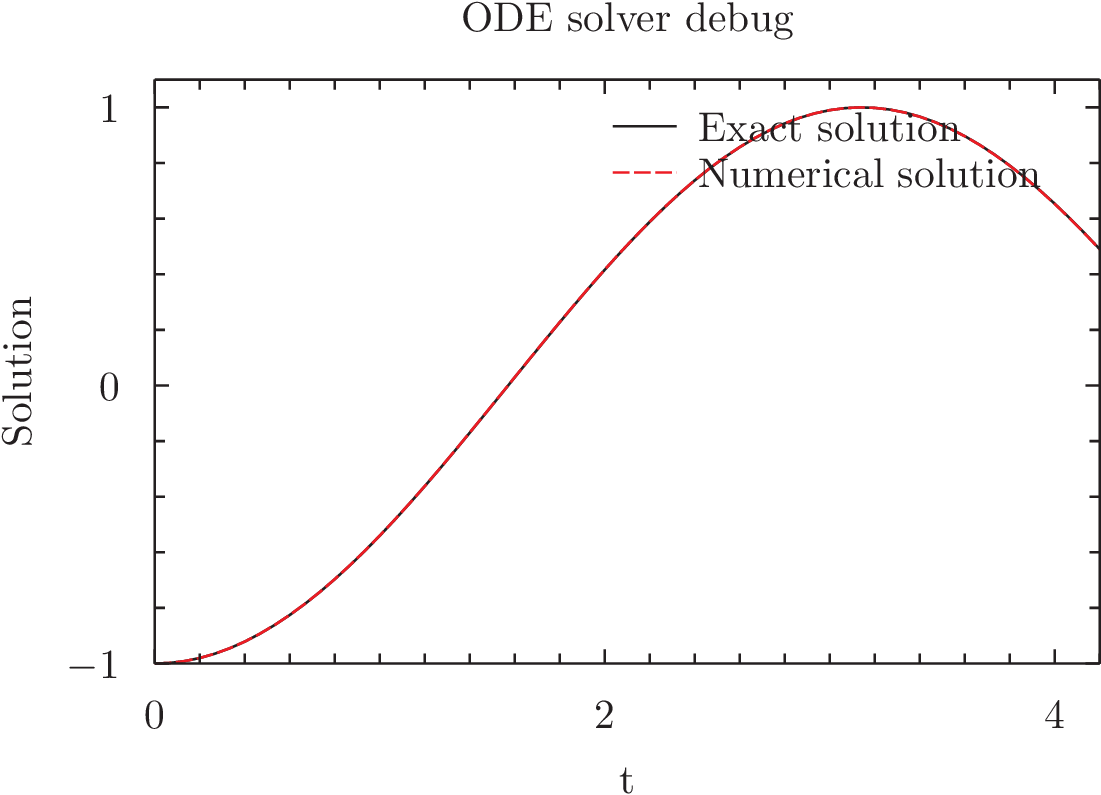
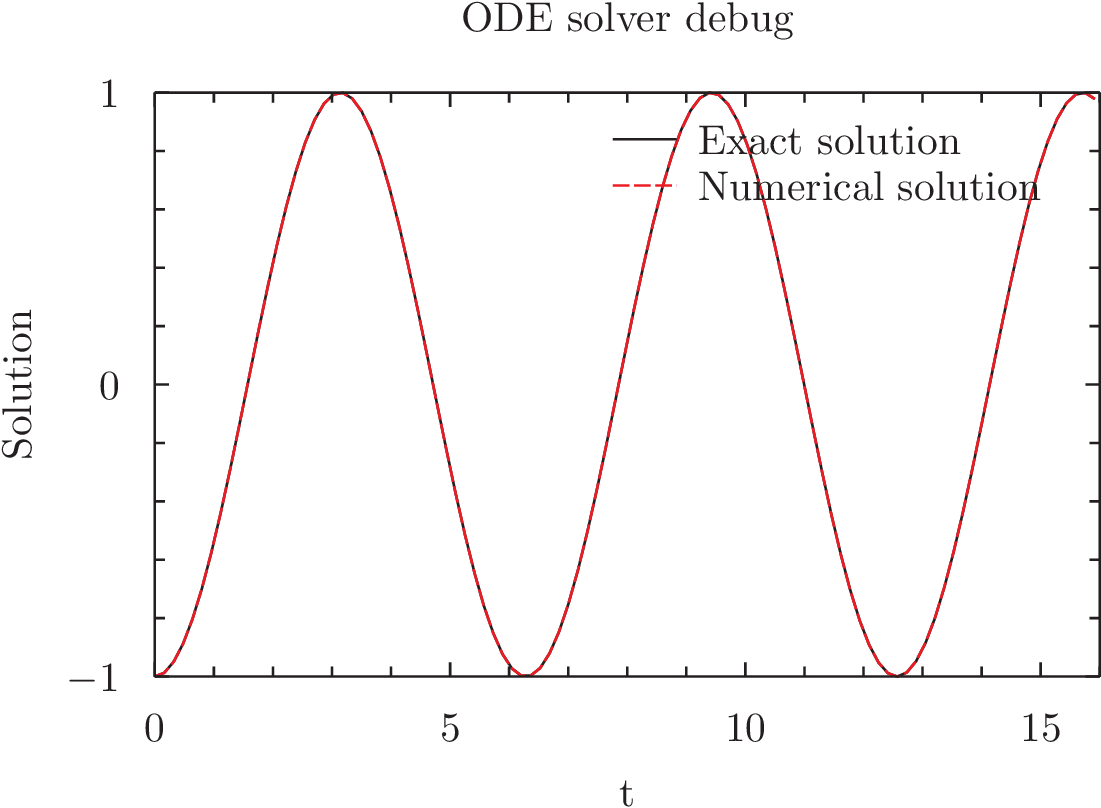
Added part A of exercise ODE

diff --git a/homeworks/ODE/PartA/main.cs b/homeworks/ODE/PartA/main.cs
@@ -27,8 +27,8 @@ class main{
         //Debug example
         vector yinit=new vector(0,-1); //initial values.
         var debug=new StreamWriter("debug.txt");
-        for(int i=0; i<=63; i++){
-            double t=i*1.0/15;
+        for(int i=0; i<=100; i++){
+            double t=i/(2*PI);
             vector sol=ODE.driver(dudtdt,a,yinit,t);
             debug.WriteLine($"{t} {sol[0]} {sol[1]} {-Cos(t)}");
         }
@@ -37,8 +37,8 @@ class main{
         //Scipy example
         vector y0=new vector(PI-0.1,0.0);
         var py_write=new StreamWriter("py_comp.txt");
-        for(int i=0; i<=63; i++){
-            double t=i/(2*PI);
+        for(int i=0; i<=100; i++){
+            double t=i*1.0/10;
             vector sol=ODE.driver(py_comp,a,y0,t);
             py_write.WriteLine($"{t} {sol[0]} {sol[1]}");
         }
